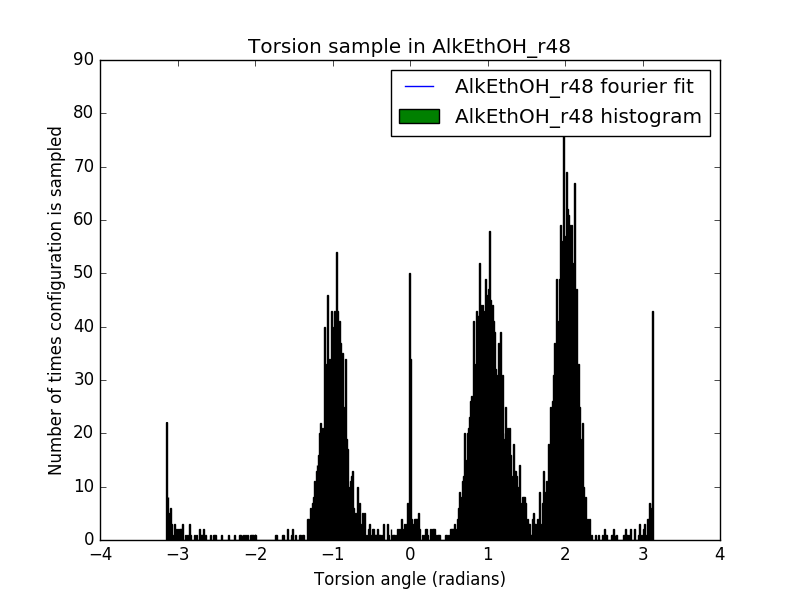
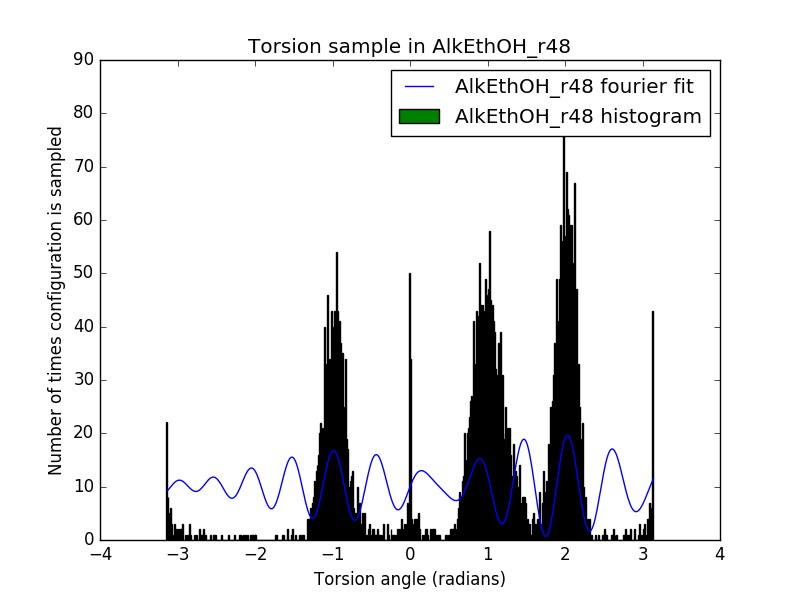
Add phase as a parameter

diff --git a/single-molecule-property-generation/least_squares_fit_example.py b/single-molecule-property-generation/least_squares_fit_example.py
@@ -512,7 +512,7 @@ plt.figure()
 #	if j==0.:
 #           n1[i]=5.
 
-popt, pcov = sci.curve_fit(fourier, bins1[1:], n1, [1.0,0.0,1.0]*3, maxfev=100000)
+popt, pcov = sci.curve_fit(fourier, bins1[1:], n1, [1.0,1.0,1.0]*3, maxfev=100000)
 plt.plot(bins1[1:],fourier(bins1[1:],*popt),label='AlkEthOH_r48 fourier fit')
 plt.ylabel('Number of times configuration is sampled')
 plt.xlabel('Torsion angle (radians)')
